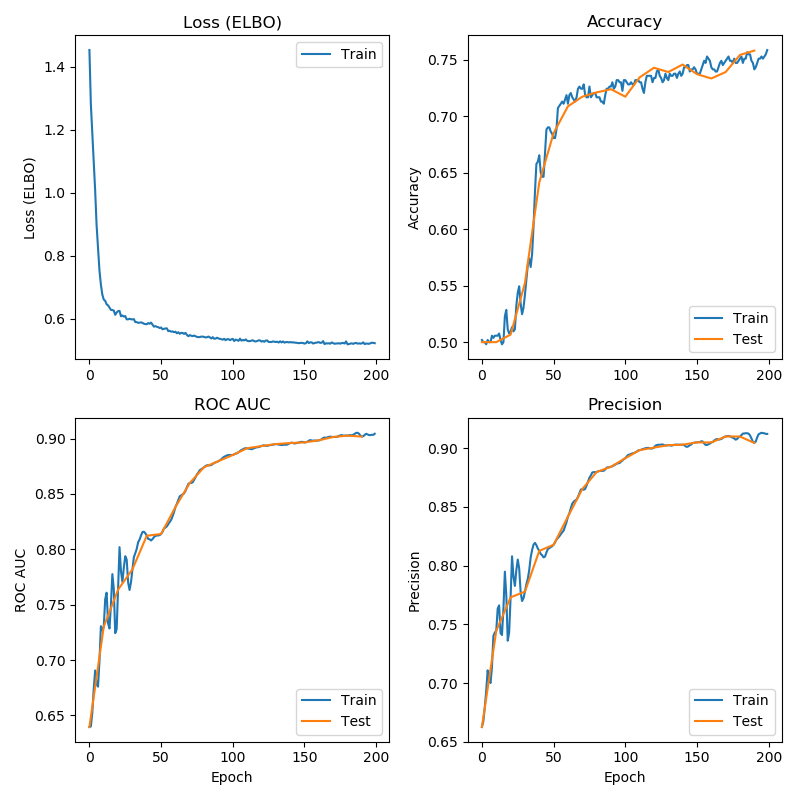
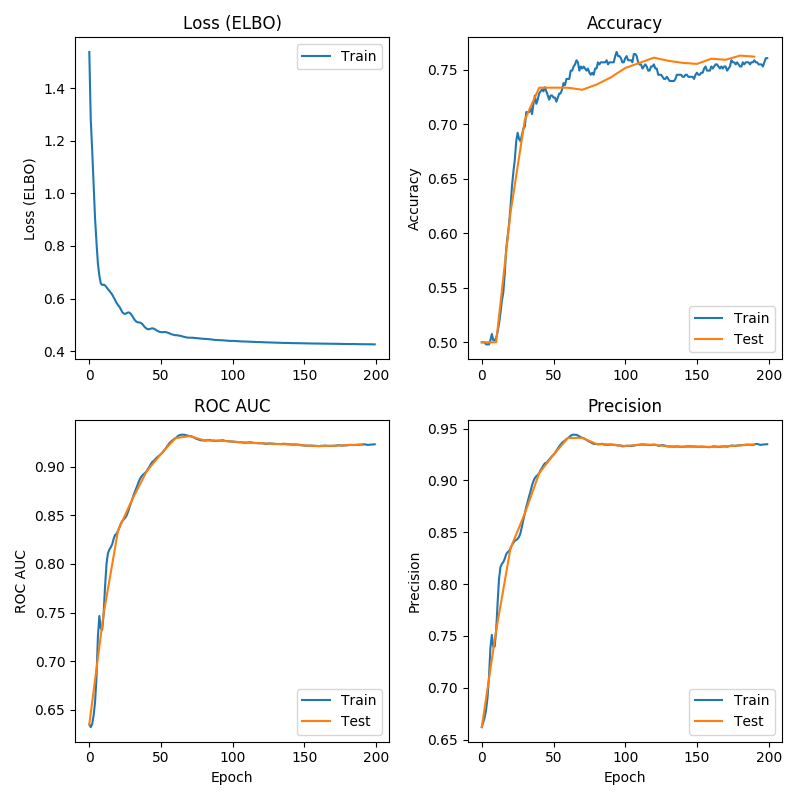
Updated README and results plots. Added requirements.txt

diff --git a/train.py b/train.py
@@ -106,8 +106,8 @@ if __name__ == '__main__':
     args.seed        = 2
     args.dropout     = 0.0
     args.num_epochs  = 50
-    args.dataset_str = 'cora'
-    # args.dataset_str = 'citeseer'
+    # args.dataset_str = 'cora'
+    args.dataset_str = 'citeseer'
     args.test_freq   = 10
     args.lr          = 0.01
 

diff --git a/README.md b/README.md
@@ -2,15 +2,17 @@
 Graph Auto-Encoder in PyTorch
 
 This is a PyTorch/Pyro implementation of the Variational Graph Auto-Encoder model described in the paper:
- 
+
 T. N. Kipf, M. Welling, [Variational Graph Auto-Encoders](https://arxiv.org/abs/1611.07308), NIPS Workshop on Bayesian Deep Learning (2016)
 
-This repository uses some of the code found here: https://github.com/tkipf/pygcn and https://github.com/tkipf/gae. 
+This repository uses some of the code found here: https://github.com/tkipf/pygcn and https://github.com/tkipf/gae.
+
+Tested December 19th, 2018 with PyTorch 1.0 and Pyro 0.3.0.
 
 ### Requirements
 - Python 2.7
-- Pyro
-- PyTorch
+- Pyro 0.3.0
+- PyTorch 1.0
 - networkx
 - scikit-learn
 - scipy
@@ -26,5 +28,5 @@ python train.py
 ```
 
 ### Notes
-- This implementation uses Pyro's blackbox SVI function with the default ELBO loss. This is slower than the TensorFlow implementation which uses a custom loss function with an analytic solution to the KL divergence term. 
+- This implementation uses Pyro's blackbox SVI function with the default ELBO loss. This is slower than the TensorFlow implementation which uses a custom loss function with an analytic solution to the KL divergence term.
 - Currently the code is not set up to use a GPU, but the code should be easy to extend to improve running speed
